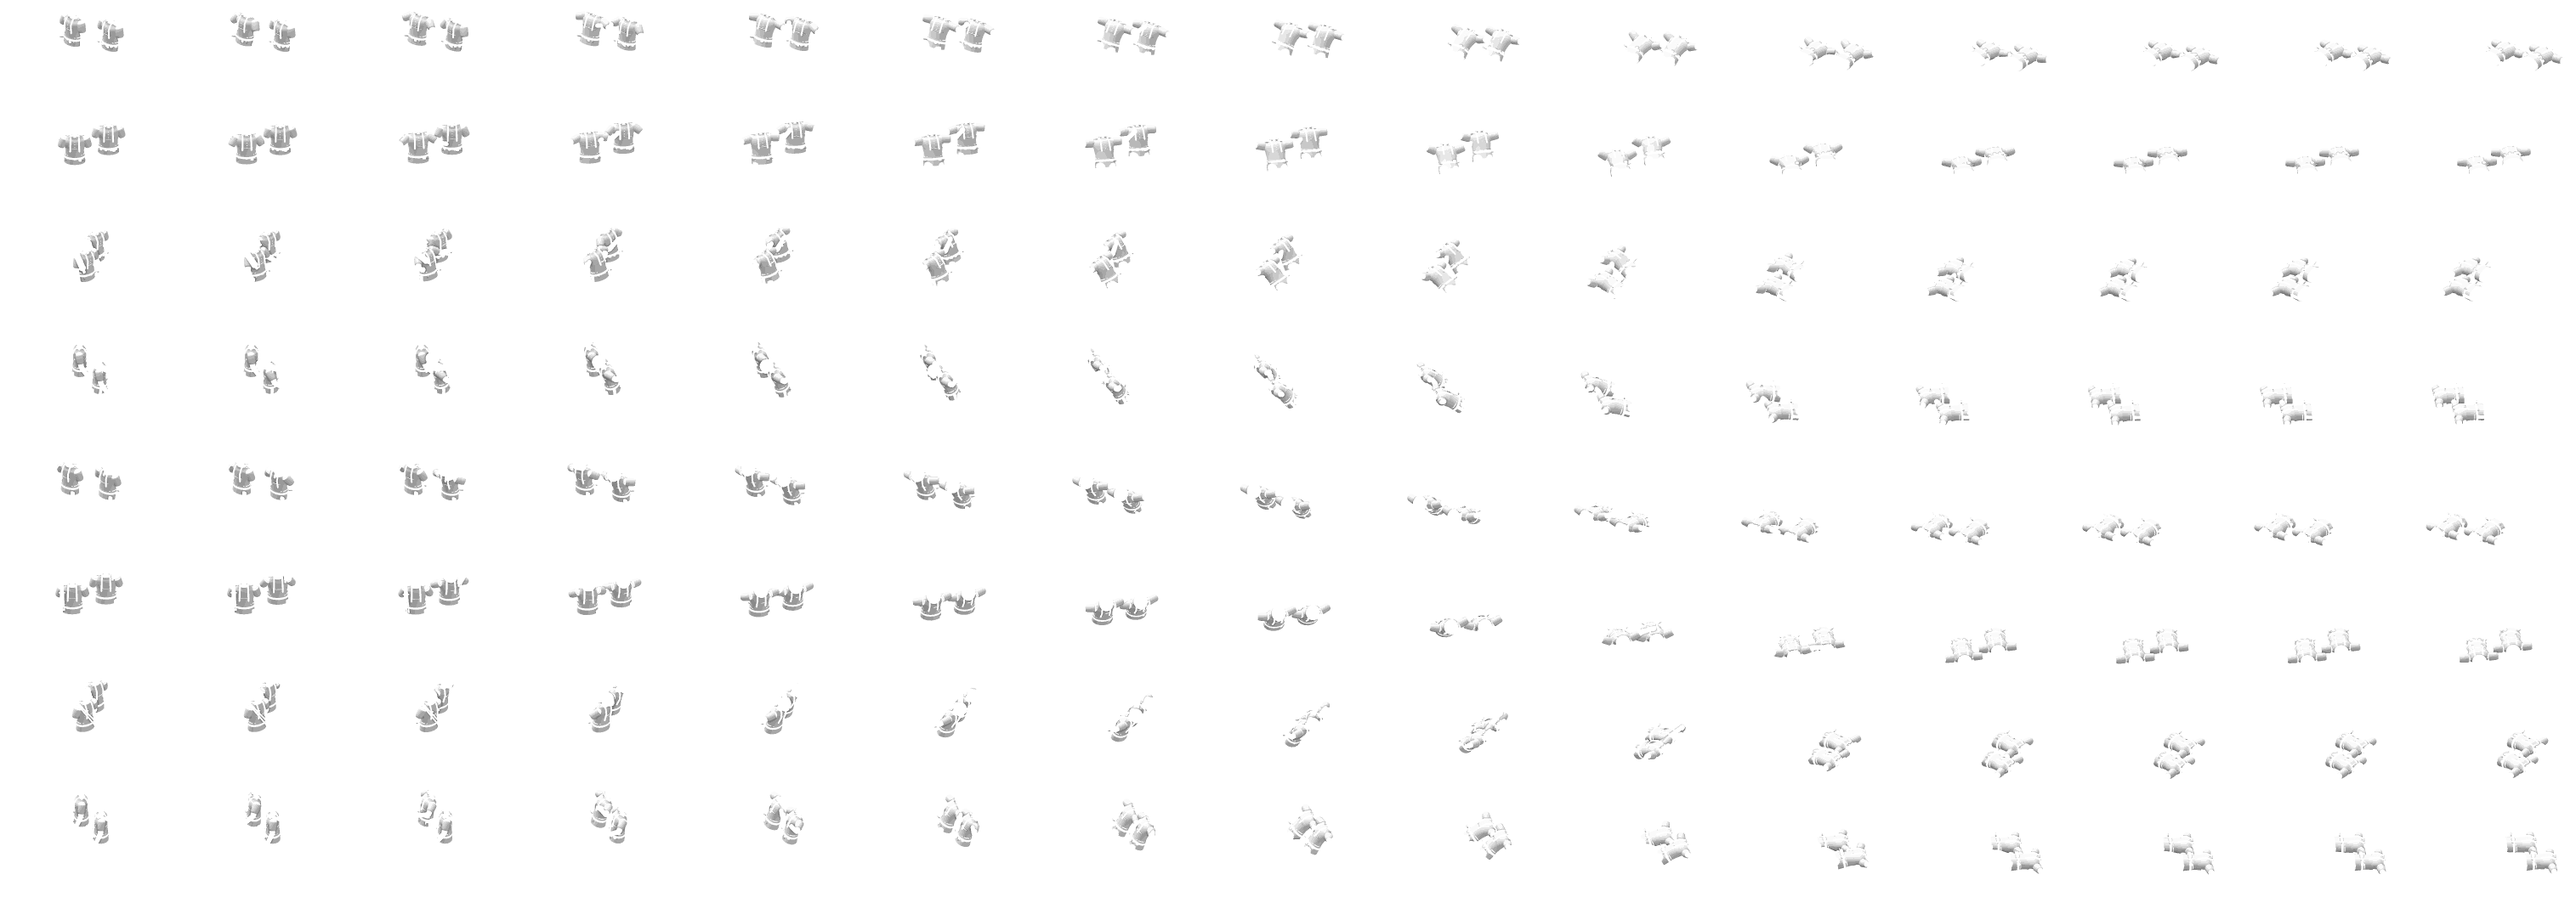
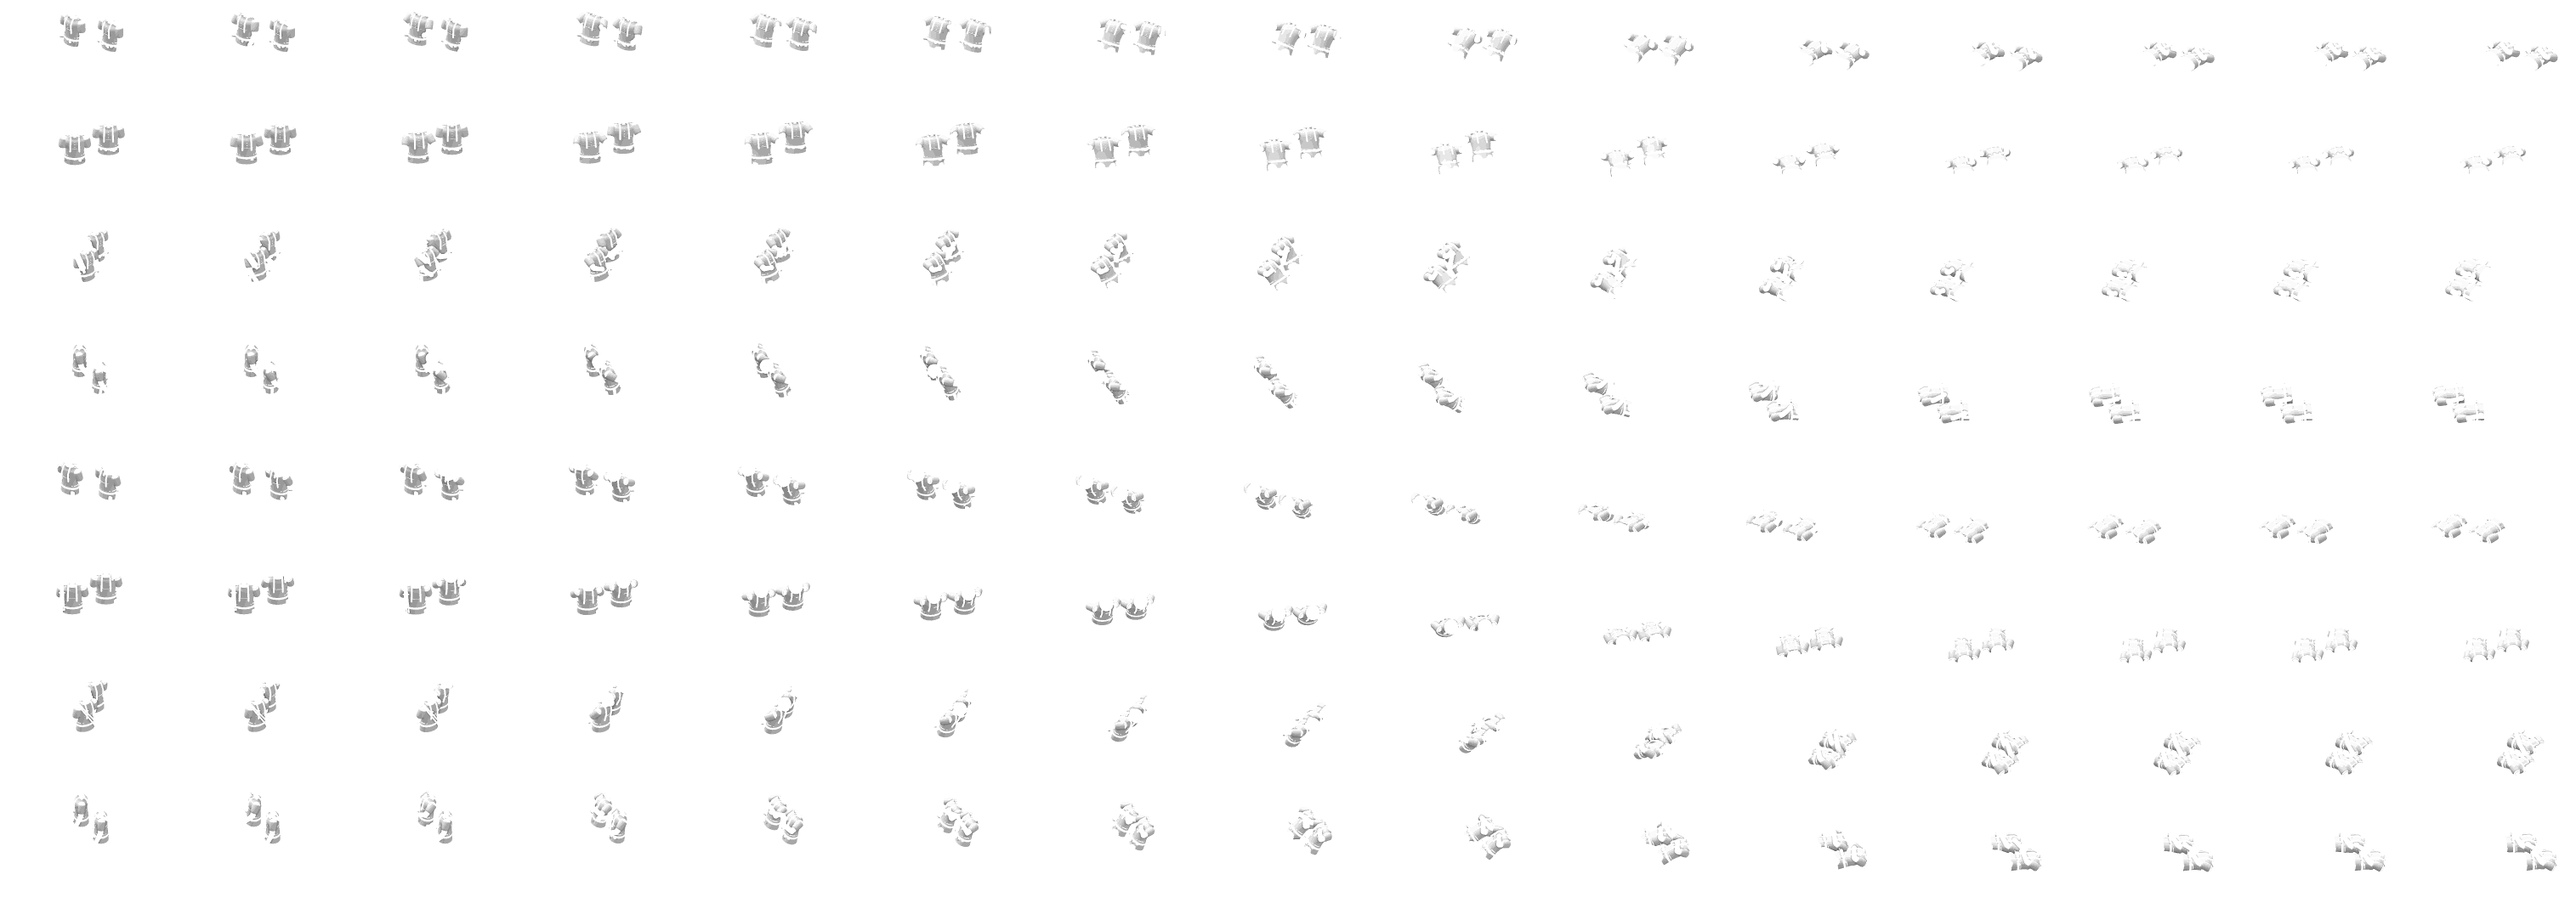
Round-2 line units: a death of their own (line_death): the stock fall on the back with the arms kept in, no arms flung out at the end, the weapon kept in hand and laid flat beside the body; the Battalion's men fall the same way. Sheets rebuilt.

diff --git a/ArtGen/units/models/line_foot.py b/ArtGen/units/models/line_foot.py
@@ -439,6 +439,66 @@ class LineBody(LF.LeagueBody):
             super()._hat(add0)
 
 
+# ------------------------------------------------------------ death
+
+def line_death(base, ctx):
+    """humanoid.anim_death's fall (struck, staggers back, knees buckle, falls
+    on the back) with the arms kept in: the right hand keeps its weapon at
+    the side, the left comes over the belly. No arms flung out."""
+    down = ctx.event('down', 0.55) if ctx is not None else 0.55
+    down = min(max(down or 0.55, 0.35), 0.85)
+    fk = {
+        'thigh_r': (0, -4, 0), 'shin_r': (0, 0, 0), 'thigh_l': (0, 4, 0), 'shin_l': (0, 0, 0),
+        'arm_r': (10, -12, 0), 'forearm_r': (25, 0, 0), 'arm_l': (5, 12, 0), 'forearm_l': (20, 0, 0),
+        'root_pos': (0, 0, 0), 'root_rot': (0, 0, 0), 'spine': (0, 0, 0), 'chest': (0, 0, 0), 'head': (0, 0, 0),
+        'death_t': 0.0,
+    }
+    k = [
+        (0.0, {}),
+        (0.18, {'root_rot': (12, 0, 6), 'root_pos': (0, -0.06, -0.02), 'chest': (12, 0, 8), 'head': (22, 0, 0),
+                'arm_r': (35, -22, 0), 'forearm_r': (45, 0, 0), 'arm_l': (40, 28, 0), 'forearm_l': (70, 0, 0),
+                'thigh_r': (10, -4, 0), 'shin_r': (-18, 0, 0), 'order': 0.0}),
+        (0.38, {'root_rot': (30, 0, 10), 'root_pos': (0, -0.22, -0.28), 'chest': (14, 0, 8), 'head': (24, 0, 0),
+                'thigh_r': (62, -8, 0), 'shin_r': (-72, 0, 0), 'thigh_l': (44, 8, 0), 'shin_l': (-62, 0, 0),
+                'arm_r': (45, -30, 0), 'forearm_r': (35, 0, 0), 'arm_l': (55, 32, 0), 'forearm_l': (65, 0, 0)}),
+        (0.62, {'root_rot': (80, 0, 8), 'root_pos': (0, -0.55, -0.72), 'chest': (6, 0, 4), 'head': (10, 0, 10),
+                'thigh_r': (40, -10, 0), 'shin_r': (-40, 0, 0), 'thigh_l': (30, 12, 0), 'shin_l': (-30, 0, 0),
+                'arm_r': (40, -28, 0), 'forearm_r': (20, 0, 0), 'arm_l': (45, 8, 0), 'forearm_l': (45, 0, 0)}),
+        (0.78, {'root_rot': (92, 0, 6), 'root_pos': (0, -0.62, -0.79), 'chest': (-2, 0, 2), 'head': (-10, 0, 18),
+                'thigh_r': (14, -14, 0), 'shin_r': (-12, 0, 0), 'thigh_l': (8, 16, 0), 'shin_l': (-16, 0, 0),
+                'arm_r': (18, -24, 0), 'forearm_r': (10, 0, 0), 'arm_l': (28, -12, 0), 'forearm_l': (30, 0, 0)}),
+        (1.0, {'root_rot': (90, 0, 6), 'root_pos': (0, -0.62, -0.78), 'chest': (0, 0, 2), 'head': (-6, 0, 22),
+               'thigh_r': (10, -14, 0), 'shin_r': (-10, 0, 0), 'thigh_l': (6, 16, 0), 'shin_l': (-14, 0, 0),
+               'arm_r': (16, -24, 0), 'forearm_r': (8, 0, 0), 'arm_l': (26, -14, 0), 'forearm_l': (28, 0, 0)}),
+    ]
+    anim = H.keys(dict(base, **{c: _v(v) for c, v in fk.items()}), k)
+
+    def fn(t):
+        p = anim(H._warp(t, [(0.62, down)]))
+        p['death_t'] = _v(t)
+        return p
+    act = FM.Act(fn, legs='fk', arms='fk')
+    act.gun_lie = True
+    return act
+
+
+def _gun_lie_R(t):
+    """The weapon's orientation through the fall: upright at the start, lying
+    flat beside the body (muzzle toward the feet) at the end."""
+    u = min(1.0, max(0.0, t / 0.75))
+    u = u * u * (3 - 2 * u)
+    d0 = np.array([0.0, 0.25, 1.0], np.float32)
+    d1 = np.array([0.18, 1.0, 0.02], np.float32)
+    z = d0 / np.linalg.norm(d0) * (1 - u) + d1 / np.linalg.norm(d1) * u
+    z /= np.linalg.norm(z)
+    x = np.cross(z, np.array([0, 0, 1.0], np.float32))
+    if np.linalg.norm(x) < 1e-3:
+        x = np.array([1.0, 0, 0], np.float32)
+    x /= np.linalg.norm(x)
+    y = np.cross(z, x)
+    return np.stack([x, y, z], 1).astype(np.float32)
+
+
 # ------------------------------------------------------------ the soldier
 
 @archetype('line_soldier')
@@ -486,11 +546,28 @@ class LineSoldier(LF.LeagueSoldier):
         finally:
             self.base = saved
 
+    def action(self, action, ctx):
+        if self.anim_name(action) == 'death':
+            key = (action, ctx.n if ctx else None)
+            if key not in self._cache:
+                self._cache[key] = line_death(self.base, ctx)
+            return self._cache[key]
+        return super().action(action, ctx)
+
     def _order_T(self, T, pose):
         o = float(pose.get('order', 0.0)) * self.order_grip
         return T @ M.translate(0, 0, -o) if o > 1e-4 else T
 
     def pose_full(self, pose, act, weapon, offhand='same'):
+        if getattr(act, 'gun_lie', False) and weapon is not None:
+            mesh, info = super().pose_full(pose, act, None, offhand)
+            Wh = info['W']['hand_r']
+            T = np.eye(4, dtype=np.float32)
+            T[:3, :3] = _gun_lie_R(float(pose.get('death_t', 1.0)))
+            T[:3, 3] = Wh[:3, 3] + Wh[:3, :3] @ _v((0, 0.01, -H.GRIP))
+            T = self._order_T(T, info['pose'])
+            info['T'] = dict(info['T'], r=T)
+            return M.Mesh.concat([mesh, self.prop(weapon).transformed(T)]), info
         if not self.order_grip or weapon is None or weapon != self.weapon or float(pose.get('order', 0.0)) < 1e-4:
             return super().pose_full(pose, act, weapon, offhand)
         mesh, info = super().pose_full(pose, act, None, offhand)
@@ -677,7 +754,7 @@ class LineMgTeam:
         drop = 0.2
         u = min(1.0, max(0.0, (t - drop) / 0.2))
         for who, at, delay, role in ((self.gunner, self.gunner_at, 0.0, 'gun'), (self.assistant, self.assistant_at, 0.1, 'tripod')):
-            d = H.anim_death(who.base, None, None, None)
+            d = line_death(who.base, None)
             tt = min(1.0, max(0.0, (t - delay) / (1 - delay)))
             p = d.fn(tt)
             m, info = who.pose_full(p, d, None, None)
